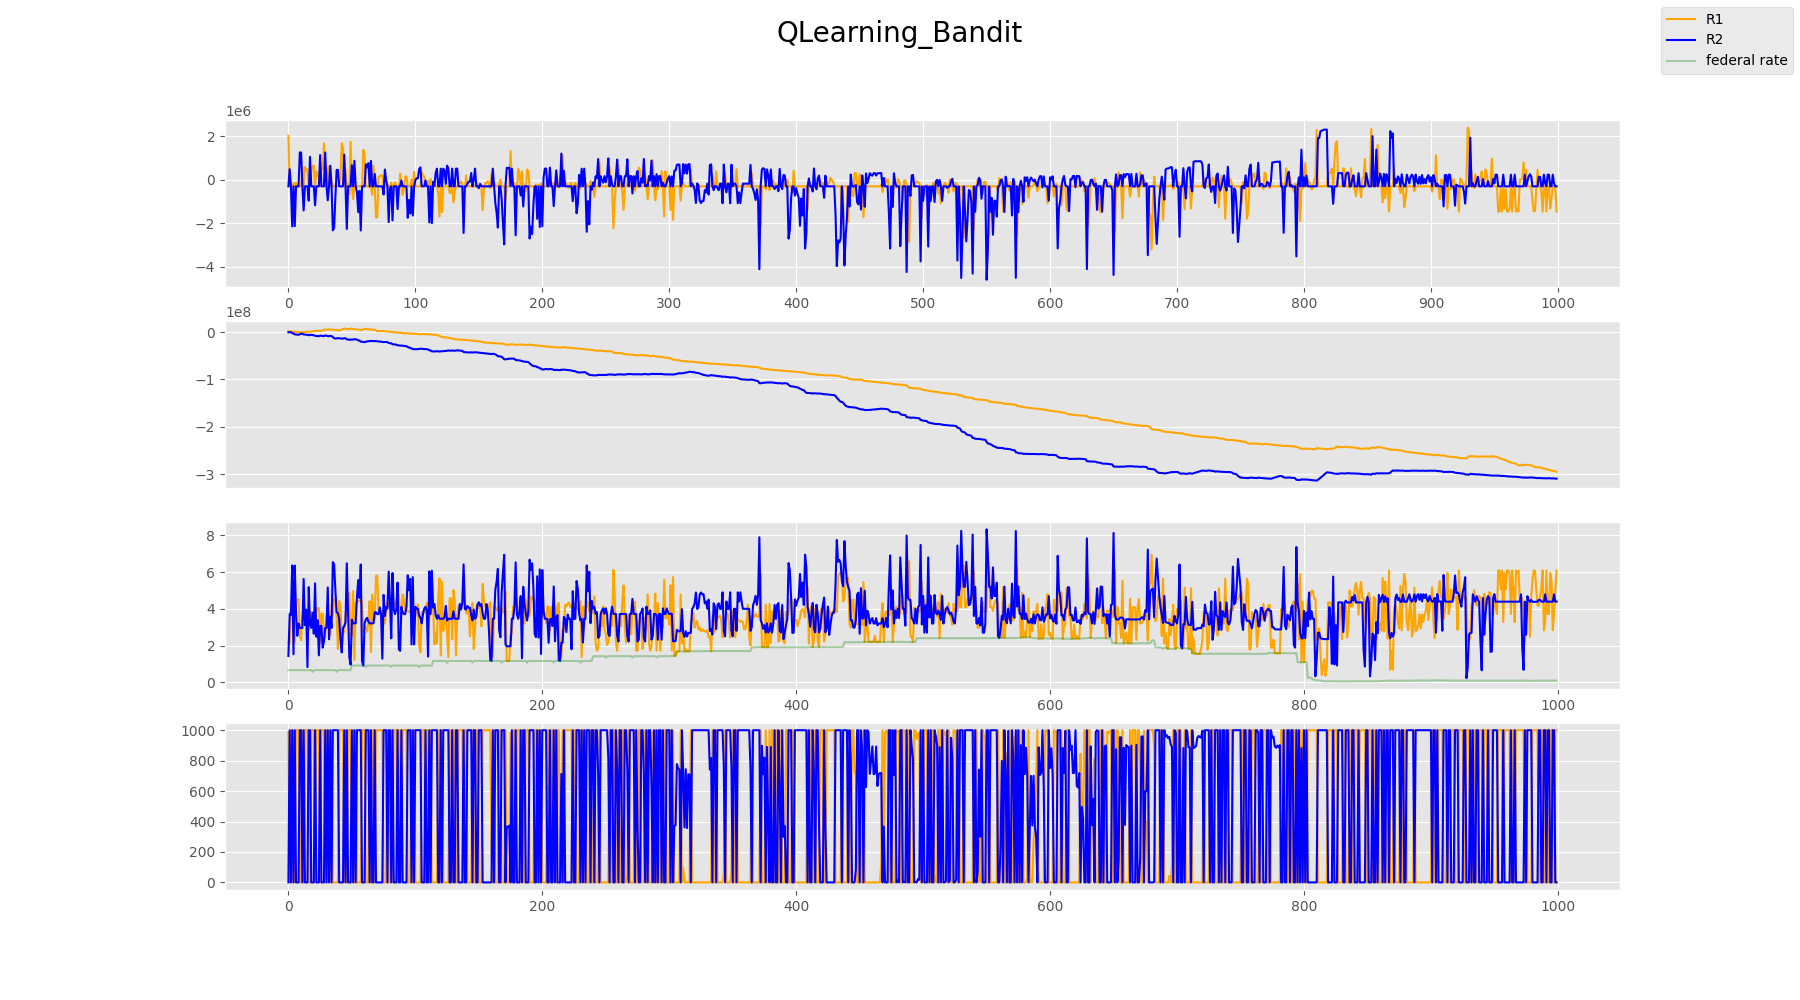
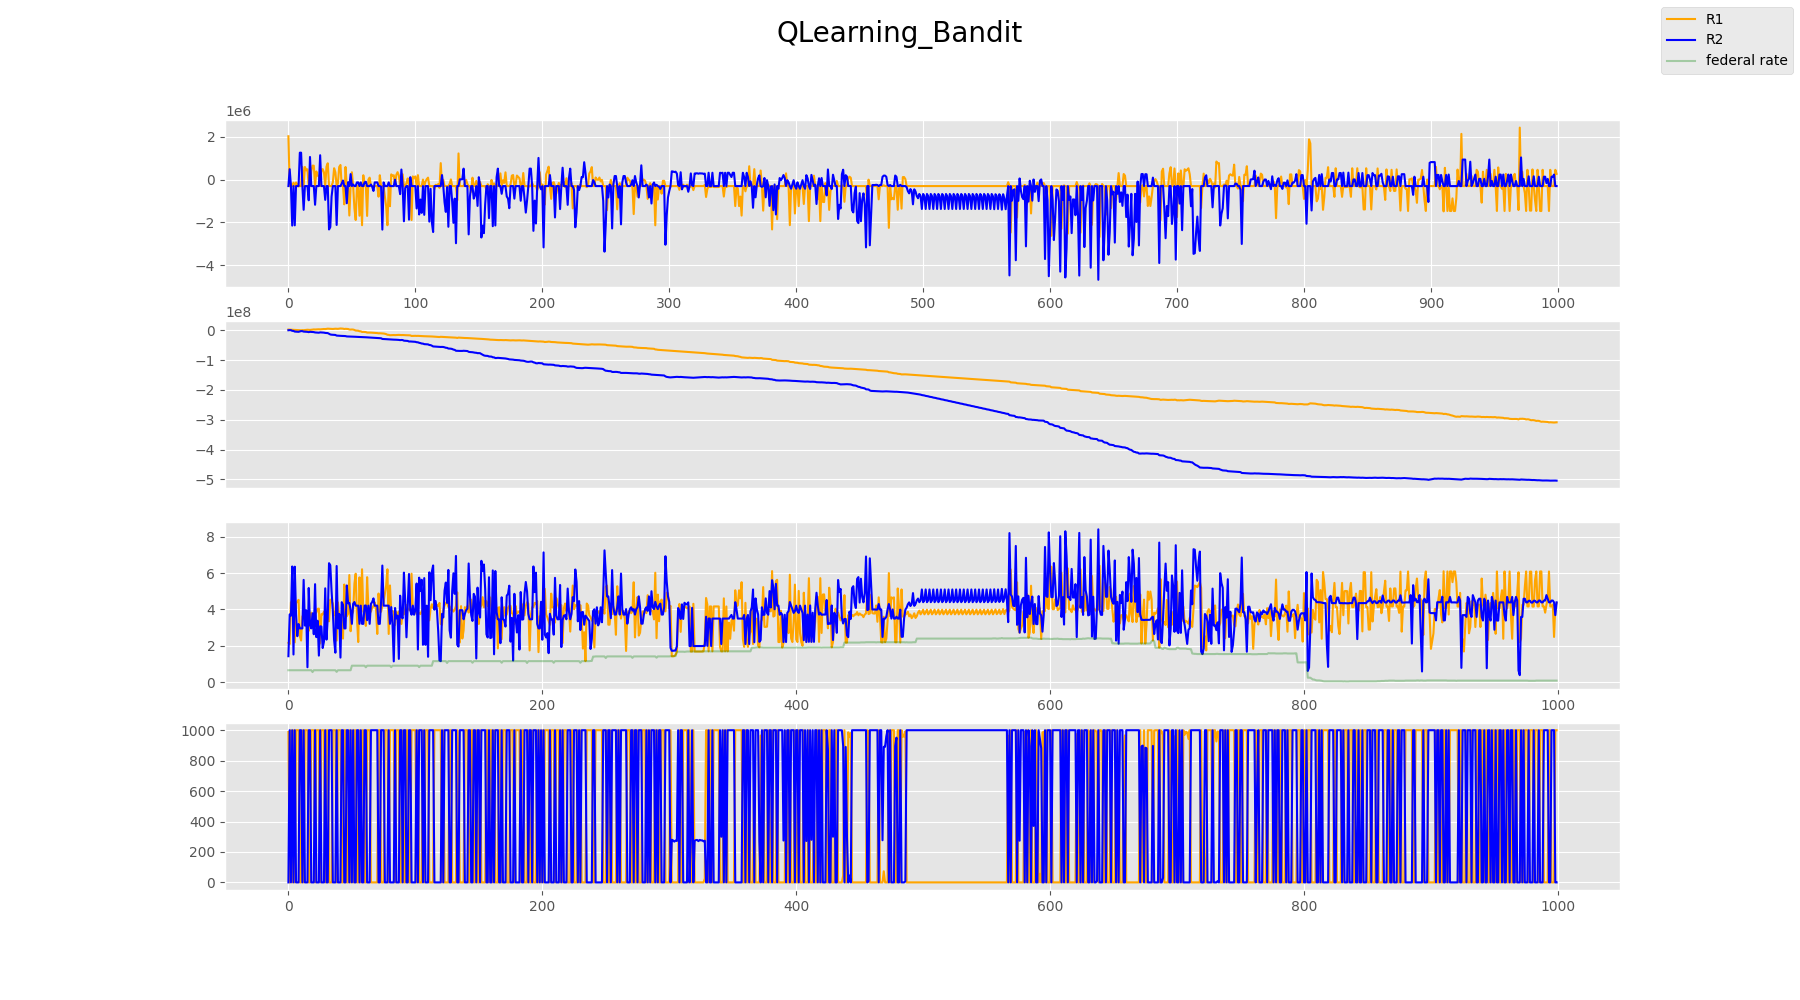
PolicyGradient

diff --git a/p3/colosseum.py b/p3/colosseum.py
@@ -301,10 +301,10 @@ def Bandit(**data):
 
 
 class QLearningProblem:
-    def __init__(self, upb, lr=1, gamma=.4):
+    def __init__(self, upb, lr=.6, gamma=.4):
         self.learning_rate = lr
         self.gamma = gamma
-        self.ofdeltaScalar = Split(0, upb, int(upb / .5) + 1)
+        self.ofdeltaScalar = Split(0, upb, int(upb / .3) + 1)
         self.actScalar = Split(-2, 2, 10)
         self.Q = collections.defaultdict(
             lambda: {i: 0 for i in range(len(self.actScalar))})
@@ -315,7 +315,7 @@ class QLearningProblem:
         self.rng = getrng()
 
     def State(self, d):
-        return d.rate, self.ofdeltaScalar.predict(d.orate - d.rate)
+        return Split(0, 10, int(10 / .5) + 1).predict(d.rate), self.ofdeltaScalar.predict(d.orate - d.rate)
 
     def Fit(self, fd):
         self.fd = fd
@@ -346,10 +346,11 @@ class QLearningProblem:
         s = self.State(d)
 
         m = self.DictMax(self.Q[s])
-        if m[1] > 20000:
+        if m[1] > 25000:
             return self.actScalar.map(m[0]) + d.orate
 
-        if self.rng.random() < .35:
+        if self.rng.random() < .25:
+            self.exploration = 1
             scalar = MinMaxScaler().fit(
                 A([self.DictMax(self.Q[s])[1], self.DictMin(self.Q[s])[1]]))
             lsm = self.DictMax(
@@ -490,7 +491,7 @@ def OneOneContest(queue, sema, ma, mb, show=False):
 
 @static(queue=mp.Queue(), sema=mp.Semaphore(20))
 def NNContest(battleList):
-    dc.ClearGraph()
+    # dc.ClearGraph()
     with open("p3/report.txt", "w") as f:
         print("".ljust(40, "-"))
         maxLength = max(
@@ -563,6 +564,6 @@ def GShow():
 if __name__ == '__main__':
     battleList = [Chiang1, Chiang2, Middle, Min, Max,
                   Random, ES, ME, Chen5, Chen6, Bandit, QLearning, OponentBase, OponentBaseDynamic]
-    battleList = [QLearning, Bandit, PolicyGradient]
+    battleList = [QLearning, Bandit]
     NNContest(battleList)
-    GShow()
+    # GShow()
